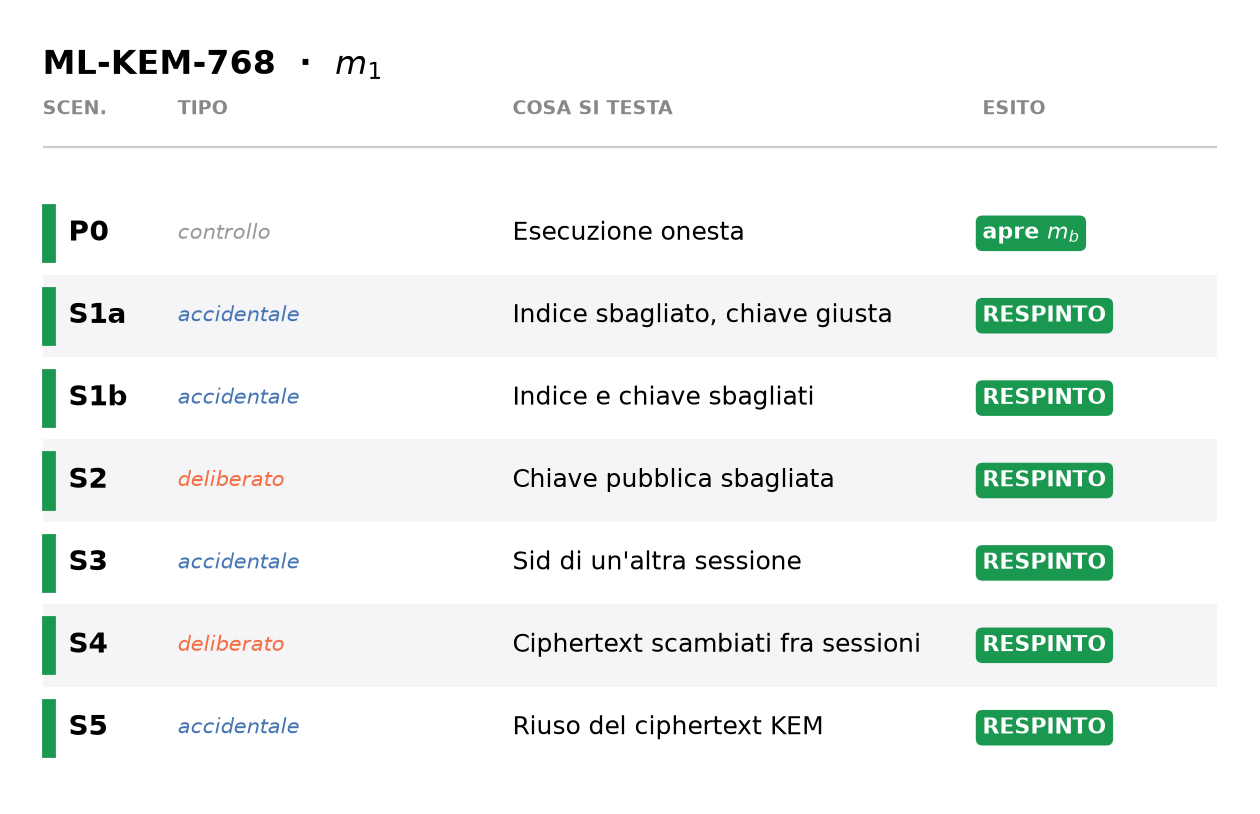
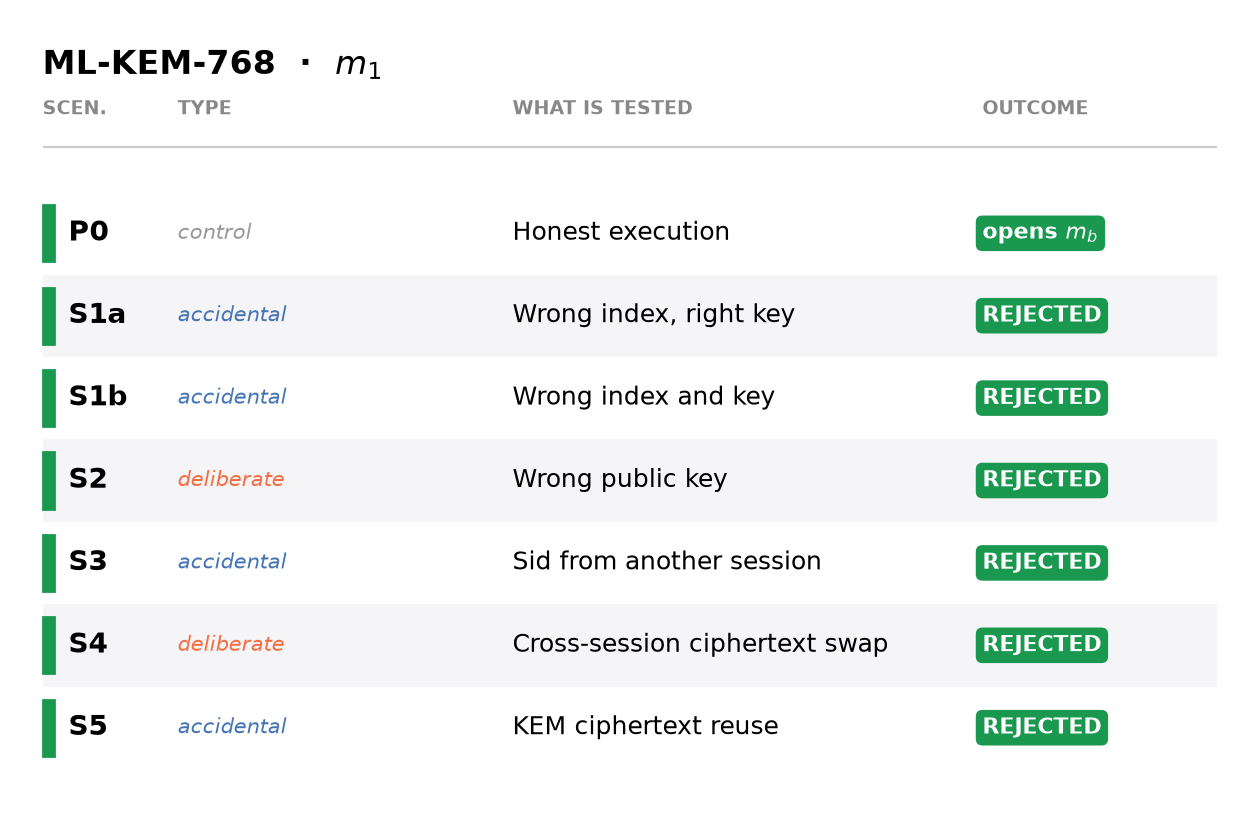
Translate figure labels to English

diff --git a/README.md b/README.md
@@ -5,7 +5,7 @@ This project was developed as part of a 2-year master's degree program at the Un
 The package itself (source code, `pyproject.toml`, installation and usage instructions) lives in the [release branch](https://github.com/TheGaBr0/modularot/tree/release). This branch holds the thesis material built around it.
 
 # Experimental results
-All figures are generated by the verification suite and the scaling benchmark of the package. Captions are in Italian, as in the thesis.
+The figures come from the verification suite and the scaling benchmark of the package. They are the thesis figures with English labels (data unchanged).
 
 ## Indistinguishability of real and oblivious public keys
 Receiver privacy requires that an oblivious public key cannot be told apart from a real one. For each KEM, the samplers were tested with a Kolmogorov-Smirnov test on the empirical distribution of coefficients (step 2), a χ² test against the uniform distribution (step 3) and entropy estimates (step 4). Example for ML-KEM-768: the two empirical CDFs overlap, both χ² values stay below the threshold, and Shannon entropy is 11.69 bits for both.
